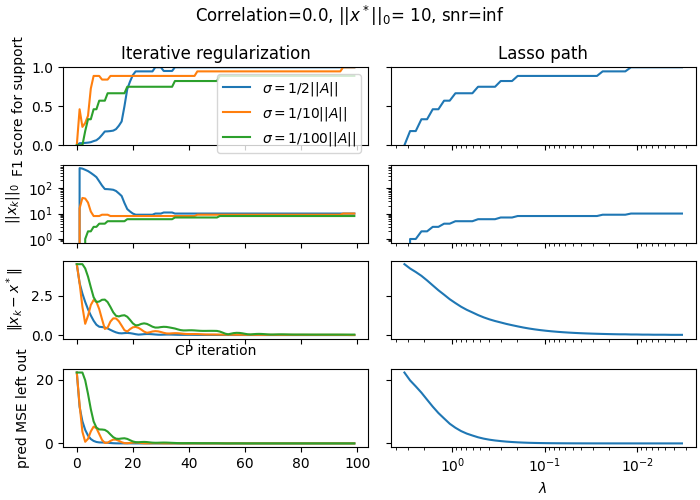
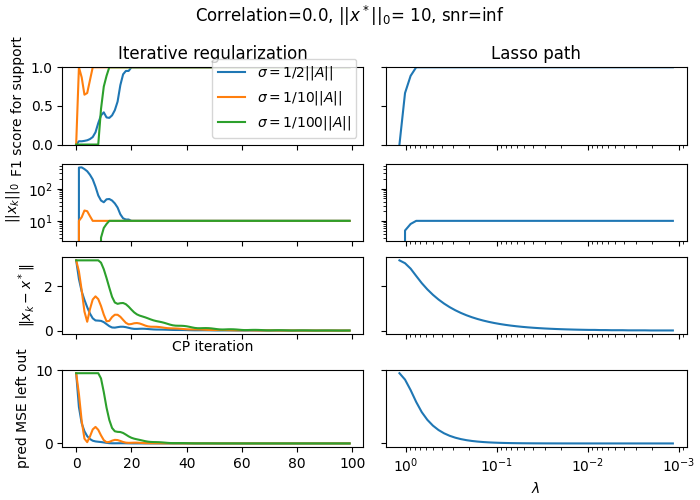
Generate Pelican site [ci skip]

diff --git a/searchindex.js b/searchindex.js
@@ -1,1 +1,1 @@
-Search.setIndex({docnames:["api","auto_examples/index","auto_examples/plot_cv_vs_cp_path","auto_examples/plot_existence_stopping","auto_examples/plot_rate_bregman","auto_examples/plot_stepsize_influence","auto_examples/plot_stopping_lowrank","auto_examples/sg_execution_times","generated/iterreg.ell1.estimators.BasisPursuitIterReg","index"],envversion:{"sphinx.domains.c":2,"sphinx.domains.changeset":1,"sphinx.domains.citation":1,"sphinx.domains.cpp":3,"sphinx.domains.index":1,"sphinx.domains.javascript":2,"sphinx.domains.math":2,"sphinx.domains.python":2,"sphinx.domains.rst":2,"sphinx.domains.std":2,"sphinx.ext.intersphinx":1,sphinx:56},filenames:["api.rst","auto_examples/index.rst","auto_examples/plot_cv_vs_cp_path.rst","auto_examples/plot_existence_stopping.rst","auto_examples/plot_rate_bregman.rst","auto_examples/plot_stepsize_influence.rst","auto_examples/plot_stopping_lowrank.rst","auto_examples/sg_execution_times.rst","generated/iterreg.ell1.estimators.BasisPursuitIterReg.rst","index.rst"],objects:{"iterreg.ell1.estimators":{BasisPursuitIterReg:[8,0,1,""]},"iterreg.ell1.estimators.BasisPursuitIterReg":{__init__:[8,1,1,""]}},objnames:{"0":["py","class","Python class"],"1":["py","method","Python method"]},objtypes:{"0":"py:class","1":"py:method"},terms:{"076":2,"09859":9,"100":[2,4,5,6],"1000":[6,8],"106k":2,"111111111111111":6,"157kb":2,"1_000":[2,5],"1e0":2,"1kb":2,"200":3,"20000":6,"200000":4,"2006":9,"2021":9,"221k":2,"222222222222222":6,"23m":2,"274kb":2,"3000000000000003":3,"333333333333334":6,"33e":2,"34mb":2,"38m":2,"38mb":2,"397":[2,7],"3fs":2,"400":3,"444444444444445":6,"451k":2,"4kb":2,"500":[3,5,6],"5000":2,"503kb":2,"515":7,"54mb":2,"5555555555555554":6,"5_000":3,"61mb":2,"624":[3,7],"63e":4,"664":[6,7],"666666666666667":6,"66m":2,"7000000000000002":3,"777777777777779":6,"80mb":2,"81m":2,"831":2,"83m":2,"83mb":2,"853":[5,7],"86e":4,"87mb":2,"88888888888889":6,"909k":2,"93mb":2,"951kb":2,"95m":2,"95mb":2,"977":[4,7],"case":5,"class":8,"default":2,"final":5,"function":[0,5],"import":[2,3,4,5,6,9],"int":5,"return":3,"true":[2,3,4,5,6],Res:4,The:5,__init__:8,a_test:5,abl:9,abs:[2,4,9],accur:8,addit:5,aistat:9,algo:4,all:[1,4],all_w:[2,3],all_w_pd:4,all_w_rep:3,all_wdict:3,all_x:5,alpha:[2,3,4,5],alpha_:2,alpha_max:2,alphas_:2,alphas_stop:2,anaconda:9,ani:[4,9],arang:[2,3,4,6],argmin:[2,3],arrai:[2,3],arxiv:9,assert:4,author:9,auto_exampl:7,auto_examples_jupyt:1,auto_examples_python:1,avail:9,axarr:[2,5],axi:[2,3,4,5],axvlin:2,b_test:5,basispursuititerreg:2,benefici:5,best:2,best_alpha:2,best_it:2,bia:9,binari:2,block:[2,3,4,5,6],booktitl:9,bool:6,bregman:[1,7],bz2:2,can:9,celer:[2,3,4,5,6],celer_data:2,celer_path:5,cesar:9,chambol:[1,7],check:9,choic:6,circleci:2,cjlin:2,clf:[2,3,4],click:[2,3,4,5,6],clone:9,close:4,code:[1,2,3,4,5,6,9],coef:5,coef_:[3,4],col:5,color:2,column:5,com:9,comparison:2,complet:[1,7],comput:5,configure_plt:[3,4,6],constrained_layout:[2,3,4,5,6],control:4,converg:[4,5],convex:9,copi:[3,6],corr:5,correl:5,csie:2,data:[2,5],dataset:[2,5],decompress:2,def:[3,5],del:3,delai:[2,3],delta:[3,6],delta_k:3,densiti:5,dict:[3,6],differ:5,dist:6,distanc:6,distribut:9,diverg:4,document:9,don:9,down:5,download:[1,2,3,4,5,6],dtype:6,dual:[1,4,7],dual_prim:[2,3,5],dual_primal_low_rank:6,durat:2,earli:2,edu:2,ell1:[2,3,4,5],enough:4,enumer:[2,3,5],environ:9,error:[2,9],estim:[0,2],everyth:9,exampl:[2,3,4,5,6],execut:7,exist:[1,7],f1_score:5,f_store:[2,3,4,5,6],f_test:8,fals:[2,3,4,5,6,8],fast:2,faster:2,feasabl:4,fetch_libsvm:2,fig1:6,fig3:3,fig:[2,4,5],figsiz:[2,3,4,5,6],file:[2,7],file_s:2,fine:9,first:9,fit:[2,3,4],fit_intercept:[2,3,4],flat:6,fontsiz:[3,6],format:[3,6],fro:6,from:[2,3,4,5,6,9],full:[2,3,4,5,6],galleri:[2,3,4,5,6],gener:[1,2,3,4,5,6],geomspac:[2,5],get_xlim:5,git:9,github:9,give:9,grid:2,guarante:[1,7],help:8,here:[2,3,4,5,6],hold:5,home:2,homotopi:5,http:[2,9],idx:6,inf:5,influenc:[1,7],initi:8,inproceed:9,ipynb:[2,3,4,5,6],iter:[2,3,4,5,6,9],iterreg:[2,3,4,5,6],joblib:[2,3],jupyt:[1,2,3,4,5,6],just:9,kenw:2,kfold:2,label:[2,3,4,5,6],lambda:[2,5],lambda_:2,lambda_max:2,lasso:[1,5,7],lassocv:2,lassolar:[3,4],last:5,lcsl:9,left:5,legend:[2,3,4,5,6],len:[2,3,5,6],less:5,librari:9,libsvm:2,libsvmdata:2,libsvmtool:2,limit:6,linalg:[3,4,5,6],linear_model:[3,4],linestyl:2,linewidth:2,link:9,linspac:[3,6],load:2,loc:[3,4,6],longer:5,lorenzo:9,low:[1,7],low_rank:6,make:2,make_correlated_data:5,make_sparse_data:[3,4],mask:6,massia:9,mathbf:4,mathrm:2,mathurin:9,matplotlib:[2,3,4,5,6],matrix:[1,7],max:2,max_it:[2,3,4,5,6,8],mean:2,mean_squared_error:5,memori:[2,8],messag:9,method:8,metric:5,minut:[2,3,4,5,6],mode:[3,4,6],model_select:[2,5],molinari:9,more:5,mse:5,mse_dp:2,mse_path_:2,n_delta:[3,6],n_featur:5,n_job:[2,3],n_point:[2,3,4,6],n_rep:3,n_sampl:5,n_split:2,ncol:[3,6],need:2,nois:[3,5,6],noiseless:5,none:[2,3,4],norm:[3,4,5,6],normal:3,notebook:[1,2,3,4,5,6],now:[2,5],ntu:2,nulliti:[1,7],num:[3,6],numpi:[2,3,4,5,6],ones:3,optim:2,ord:[4,5,6],org:9,our:2,out:[2,3,4,5,6],packag:[2,9],parallel:[2,3],path:[1,5,7],perf_count:2,pip:9,pleas:9,plot:[1,5,7],plot_bregman:4,plot_cv_vs_cp_path:[2,7],plot_existence_stop:[3,7],plot_rate_bregman:[4,7],plot_stepsize_influ:[5,7],plot_stopping_lowrank:[6,7],plot_util:[3,4,6],plot_varying_sigma:5,plt:[2,3,4,5,6],pock:[1,7],posteriori:2,pred:5,primal:[1,4,7],primal_du:4,print:[2,3,4,5,6],pyplot:[2,3,4,5,6],python:[1,2,3,4,5,6,9],randn:[3,6],random:[3,6],random_st:[2,5],rang:[3,5],rank:[1,7],rcv1_train:2,recommend:9,recoveri:[1,7],regress:3,regular:[2,5,9],rep:3,replac:6,repositori:9,requir:[3,4,6],res:[2,3],result:[2,5],ret_al:5,rho:[3,4],right:[3,4,6],rip:5,rosasco:9,row:5,run:[2,3,4,5,6,9],same:4,scal:3,score:5,script:[2,3,4,5,6],second:[2,3,4,5,6],see:8,seed:[3,6],self:8,semilog:[3,4,5,6],semilogx:[2,5],set:5,set_titl:[2,5],set_xlabel:[2,3,5],set_xlim:5,set_xtick:2,set_ylabel:[2,3,5],set_ylim:5,set_ytick:4,shape:3,sharei:[2,5],sharex:5,shell:9,should:9,show:[1,2,4,5,6,7],shuffl:2,sigma:5,sign:4,signatur:8,silvia:9,sklearn:[2,3,4,5],slow:5,smaller:[2,5],snr:[3,4,5],sol:5,solut:5,solver:6,soon:4,sourc:[1,2,3,4,5,6],spars:5,sphinx:[1,2,3,4,5,6],split:2,squar:2,star:[3,4,6],start:5,step:[2,3,5,8],stepsiz:[1,7],still:[5,9],stop:[1,2,7],subgrad2:4,subgrad:4,subplot:[2,3,4,5,6],successfulli:2,sum:[4,5],supp_siz:5,support:[1,7],suptitl:5,svmlight:2,test_idx:2,test_siz:5,tex:[3,4,6],theta:[4,6],theta_pd:4,thi:[3,4,5,9],tikhonov:[1,7],time:[1,2,4,5],time_cp:2,time_cv:2,titl:9,top:4,total:[2,3,4,5,6,7],train_idx:2,train_ratio:8,train_test_split:5,type:8,upper:[3,4,6],use:9,usetex:[3,4,6],using:[5,9],util:[3,4],vanish:4,verbos:[2,3,4,6,8],vert:5,villa:9,w_bp:[3,4],w_k:[4,6],w_pd:4,w_star:6,w_type:3,want:9,when:5,where:5,work:9,wrapper:3,www:2,x_k:5,x_plt:[3,6],x_true:[4,5],xlabel:[4,6],y_delta:6,y_nois:3,y_plt:[3,6],y_true:6,year:9,ylabel:6,you:9,zero:[2,3,6],zip:1},titles:["API Documentation","Examples Gallery","Plot Chambolle Pock path vs Lasso Tikhonov path","Show existence of stopping time","Nullity of Bregman guarantees","Influence of primal-dual stepsizes for support recovery","Plot stopping time for low rank matrix completion","Computation times","iterreg.ell1.estimators.BasisPursuitIterReg","Iterreg"],titleterms:{api:[0,9],basispursuititerreg:8,bregman:4,chambol:2,cite:9,complet:6,comput:7,document:0,dual:5,ell1:8,estim:8,exampl:1,exist:3,galleri:1,guarante:4,influenc:5,instal:9,iterreg:[0,8,9],lasso:2,low:6,matrix:6,nulliti:4,path:2,plot:[2,6],pock:2,primal:5,rank:6,recoveri:5,show:3,stepsiz:5,stop:[3,6],support:5,tikhonov:2,time:[3,6,7]}})
+Search.setIndex({docnames:["api","auto_examples/index","auto_examples/plot_cv_vs_cp_path","auto_examples/plot_existence_stopping","auto_examples/plot_rate_bregman","auto_examples/plot_stepsize_influence","auto_examples/plot_stopping_lowrank","auto_examples/sg_execution_times","generated/iterreg.ell1.estimators.BasisPursuitIterReg","index"],envversion:{"sphinx.domains.c":2,"sphinx.domains.changeset":1,"sphinx.domains.citation":1,"sphinx.domains.cpp":3,"sphinx.domains.index":1,"sphinx.domains.javascript":2,"sphinx.domains.math":2,"sphinx.domains.python":2,"sphinx.domains.rst":2,"sphinx.domains.std":2,"sphinx.ext.intersphinx":1,sphinx:56},filenames:["api.rst","auto_examples/index.rst","auto_examples/plot_cv_vs_cp_path.rst","auto_examples/plot_existence_stopping.rst","auto_examples/plot_rate_bregman.rst","auto_examples/plot_stepsize_influence.rst","auto_examples/plot_stopping_lowrank.rst","auto_examples/sg_execution_times.rst","generated/iterreg.ell1.estimators.BasisPursuitIterReg.rst","index.rst"],objects:{"iterreg.ell1.estimators":{BasisPursuitIterReg:[8,0,1,""]},"iterreg.ell1.estimators.BasisPursuitIterReg":{__init__:[8,1,1,""]}},objnames:{"0":["py","class","Python class"],"1":["py","method","Python method"]},objtypes:{"0":"py:class","1":"py:method"},terms:{"01mb":2,"04mb":2,"081":2,"08mb":2,"09859":9,"09mb":2,"100":[2,4,5,6],"1000":[6,8],"106k":2,"10mb":2,"111111111111111":6,"112kb":2,"176":[6,7],"179kb":2,"1_000":[2,5],"1e0":2,"200":3,"20000":6,"200000":4,"2006":9,"2021":9,"221k":2,"222222222222222":6,"23m":2,"3000000000000003":3,"313kb":2,"333333333333334":6,"33e":2,"38m":2,"3fs":2,"400":3,"401":[4,7],"41mb":2,"42mb":2,"444444444444445":6,"451k":2,"500":[3,5,6],"5000":2,"5555555555555554":6,"574kb":2,"5_000":3,"62mb":2,"63e":4,"662":[2,7],"666666666666667":6,"66m":2,"66mb":2,"7000000000000002":3,"777777777777779":6,"81m":2,"83m":2,"852":[3,7],"86e":4,"88888888888889":6,"896":[5,7],"909k":2,"923":2,"95m":2,"987":7,"case":5,"class":8,"default":2,"final":5,"function":[0,5],"import":[2,3,4,5,6,9],"int":5,"return":3,"true":[2,3,4,5,6],And:5,Res:4,The:5,__init__:8,a_test:5,abl:9,abs:[2,4,9],accur:8,addit:5,aistat:9,algo:4,all:[1,4],all_w:[2,3],all_w_pd:4,all_w_rep:3,all_wdict:3,all_x:5,alpha:[2,3,4,5],alpha_:2,alpha_max:2,alphas_:2,alphas_stop:2,anaconda:9,ani:[4,9],arang:[2,3,4,6],argmin:[2,3],arrai:[2,3],arxiv:9,assert:4,author:9,auto_exampl:7,auto_examples_jupyt:1,auto_examples_python:1,avail:9,axarr:[2,5],axi:[2,3,4,5],axvlin:2,b_test:5,basispursuititerreg:2,benefici:5,best:2,best_alpha:2,best_it:2,bia:9,binari:2,block:[2,3,4,5,6],booktitl:9,bool:6,bregman:[1,7],bz2:2,can:9,celer:[2,3,4,5,6],celer_data:2,celer_path:5,cesar:9,chambol:[1,7],check:9,choic:[5,6],circleci:2,cjlin:2,clf:[2,3,4],click:[2,3,4,5,6],clone:9,close:4,code:[1,2,3,4,5,6,9],coef:5,coef_:[3,4],coeffici:5,col:5,color:2,column:5,com:9,comparison:2,complet:[1,7],comput:5,configure_plt:[3,4,6],constrained_layout:[2,3,4,5,6],control:4,converg:[4,5],convex:9,copi:[3,6],corr:5,correl:5,csie:2,data:[2,5],dataset:[2,5],decompress:2,def:[3,5],del:3,delai:[2,3],delta:[3,6],delta_k:3,densiti:5,dict:[3,6],differ:5,dist:6,distanc:6,distribut:9,diverg:4,document:9,don:9,down:5,download:[1,2,3,4,5,6],dtype:6,dual:[1,4,7],dual_prim:[2,3,5],dual_primal_low_rank:6,durat:2,earli:2,edu:2,ell1:[2,3,4,5],enough:4,entri:5,enumer:[2,3,5],environ:9,equal:5,error:[2,9],estim:[0,2],everyth:9,exampl:[2,3,4,5,6],execut:7,exist:[1,7],f1_score:5,f_store:[2,3,4,5,6],f_test:8,fals:[2,3,4,5,6,8],fast:2,faster:2,feasabl:4,fetch_libsvm:2,fig1:6,fig3:3,fig:[2,4,5],figsiz:[2,3,4,5,6],file:[2,7],file_s:2,fine:9,first:9,fit:[2,3,4],fit_intercept:[2,3,4],flat:6,fontsiz:[3,5,6],format:[3,6],fro:6,from:[2,3,4,5,6,9],full:[2,3,4,5,6],galleri:[2,3,4,5,6],gener:[1,2,3,4,5,6],geomspac:[2,5],get_xlim:5,git:9,github:9,give:9,grid:2,guarante:[1,7],has:5,help:8,here:[2,3,4,5,6],hold:5,home:2,homotopi:5,http:[2,9],idx:6,inf:5,influenc:[1,7],initi:8,inproceed:9,ipynb:[2,3,4,5,6],iter:[2,3,4,5,6,9],iterreg:[2,3,4,5,6],joblib:[2,3],jupyt:[1,2,3,4,5,6],just:9,kenw:2,kfold:2,label:[2,3,4,5,6],lambda:[2,5],lambda_:2,lambda_max:2,lasso:[1,5,7],lassocv:2,lassolar:[3,4],last:5,lcsl:9,left:5,legend:[2,3,4,5,6],len:[2,3,5,6],less:5,librari:9,libsvm:2,libsvmdata:2,libsvmtool:2,limit:6,linalg:[3,4,5,6],linear_model:[3,4],linestyl:2,linewidth:2,link:9,linspac:[3,6],load:2,loc:[3,4,5,6],longer:5,lorenzo:9,low:[1,7],low_rank:6,lower:5,make:2,make_correlated_data:5,make_sparse_data:[3,4],mask:6,massia:9,mathbf:4,mathrm:2,mathurin:9,matplotlib:[2,3,4,5,6],matrix:[1,7],max:2,max_it:[2,3,4,5,6,8],maxim:5,mean:2,mean_squared_error:5,memori:[2,8],messag:9,method:8,metric:5,minut:[2,3,4,5,6],mode:[3,4,6],model_select:[2,5],molinari:9,more:5,mse:5,mse_dp:2,mse_path_:2,n_delta:[3,6],n_featur:5,n_job:[2,3],n_point:[2,3,4,6],n_rep:3,n_sampl:5,n_split:2,ncol:[3,6],need:2,nois:[3,5,6],noiseless:5,none:[2,3,4],norm:[3,4,5,6],normal:3,notebook:[1,2,3,4,5,6],now:[2,5],ntu:2,nulliti:[1,7],num:[3,6],numpi:[2,3,4,5,6],ones:3,optim:2,ord:[4,5,6],org:9,our:2,out:[2,3,4,5,6],packag:[2,9],parallel:[2,3],path:[1,5,7],perf_count:2,pip:9,pleas:9,plot:[1,5,7],plot_bregman:4,plot_cv_vs_cp_path:[2,7],plot_existence_stop:[3,7],plot_rate_bregman:[4,7],plot_stepsize_influ:[5,7],plot_stopping_lowrank:[6,7],plot_util:[3,4,6],plot_varying_sigma:5,plt:[2,3,4,5,6],pock:[1,7],posteriori:2,pred:5,primal:[1,4,7],primal_du:4,print:[2,3,4,5,6],product:5,pyplot:[2,3,4,5,6],python:[1,2,3,4,5,6,9],randn:[3,6],random:[3,5,6],random_st:[2,5],rang:[3,5],rank:[1,7],rcv1_train:2,recommend:9,recoveri:[1,7],regress:3,regular:[2,5,9],rep:3,replac:[5,6],repositori:9,requir:[3,4,6],res:[2,3],result:[2,5],ret_al:5,rho:[3,4,5],right:[3,4,5,6],rip:5,rosasco:9,row:5,run:[2,3,4,5,6,9],same:4,scal:3,score:5,script:[2,3,4,5,6],second:[2,3,4,5,6],see:8,seed:[3,5,6],self:8,semilog:[3,4,5,6],semilogx:[2,5],set:5,set_titl:[2,5],set_xlabel:[2,3,5],set_xlim:5,set_xtick:2,set_ylabel:[2,3,5],set_ylim:5,set_ytick:4,shape:3,sharei:[2,5],sharex:5,shell:9,should:9,show:[1,2,4,5,6,7],shuffl:2,sigma:5,sign:4,signatur:8,silvia:9,size:5,sklearn:[2,3,4,5],slow:5,smaller:[2,5],snr:[3,4,5],sol:5,solut:5,solver:6,soon:4,sourc:[1,2,3,4,5,6],spars:5,sphinx:[1,2,3,4,5,6],split:2,squar:2,star:[3,4,6],start:5,step:[2,3,5,8],stepsiz:[1,7],still:[5,9],stop:[1,2,7],subgrad2:4,subgrad:4,subplot:[2,3,4,5,6],successfulli:2,sum:[4,5],supp:5,supp_siz:5,support:[1,7],suptitl:5,svmlight:2,taken:5,tau:5,test_idx:2,test_siz:5,tex:[3,4,6],theta:[4,6],theta_pd:4,thi:[3,4,5,9],tikhonov:[1,7],time:[1,2,4,5],time_cp:2,time_cv:2,titl:9,top:4,total:[2,3,4,5,6,7],train_idx:2,train_ratio:8,train_test_split:5,type:8,upper:[3,4,6],use:9,usetex:[3,4,6],using:[5,9],util:[3,4],vanish:4,vector:5,verbos:[2,3,4,6,8],vert:5,villa:9,w_bp:[3,4],w_k:[4,6],w_pd:4,w_star:6,w_true:5,w_type:3,want:9,when:5,where:5,work:9,wrapper:3,www:2,x_k:5,x_plt:[3,6],x_true:[4,5],xlabel:[4,6],y_delta:6,y_nois:3,y_plt:[3,6],y_true:6,year:9,ylabel:6,you:9,zero:[2,3,5,6],zip:1},titles:["API Documentation","Examples Gallery","Plot Chambolle Pock path vs Lasso Tikhonov path","Show existence of stopping time","Nullity of Bregman guarantees","Influence of primal-dual stepsizes for support recovery","Plot stopping time for low rank matrix completion","Computation times","iterreg.ell1.estimators.BasisPursuitIterReg","Iterreg"],titleterms:{api:[0,9],basispursuititerreg:8,bregman:4,chambol:2,cite:9,complet:6,comput:7,document:0,dual:5,ell1:8,estim:8,exampl:1,exist:3,galleri:1,guarante:4,influenc:5,instal:9,iterreg:[0,8,9],lasso:2,low:6,matrix:6,nulliti:4,path:2,plot:[2,6],pock:2,primal:5,rank:6,recoveri:5,show:3,stepsiz:5,stop:[3,6],support:5,tikhonov:2,time:[3,6,7]}})

diff --git a/auto_examples/plot_stepsize_influence.html b/auto_examples/plot_stepsize_influence.html
@@ -134,10 +134,16 @@ but is beneficial for support recovery.</p>
 </pre></div>
 </div>
 <p>The function to compute CP, Lasso path and plot metrics:</p>
-<div class="highlight-default notranslate"><div class="highlight"><pre><span></span><span class="k">def</span> <span class="nf">plot_varying_sigma</span><span class="p">(</span><span class="n">corr</span><span class="p">,</span> <span class="n">density</span><span class="p">,</span> <span class="n">snr</span><span class="p">,</span> <span class="n">steps</span><span class="p">,</span> <span class="n">max_iter</span><span class="o">=</span><span class="mi">100</span><span class="p">):</span>
+<div class="highlight-default notranslate"><div class="highlight"><pre><span></span><span class="k">def</span> <span class="nf">plot_varying_sigma</span><span class="p">(</span><span class="n">corr</span><span class="p">,</span> <span class="n">density</span><span class="p">,</span> <span class="n">snr</span><span class="p">,</span> <span class="n">steps</span><span class="p">,</span> <span class="n">max_iter</span><span class="o">=</span><span class="mi">100</span><span class="p">,</span> <span class="n">rho</span><span class="o">=</span><span class="mf">0.99</span><span class="p">):</span>
+    <a href="https://numpy.org/doc/stable/reference/random/generated/numpy.random.seed.html#numpy.random.seed" title="numpy.random.seed" class="sphx-glr-backref-module-numpy-random sphx-glr-backref-type-py-function"><span class="n">np</span><span class="o">.</span><span class="n">random</span><span class="o">.</span><span class="n">seed</span></a><span class="p">(</span><span class="mi">0</span><span class="p">)</span>
+    <span class="c1"># true coefficient vector has entries equal to 0 or 1</span>
+    <span class="n">supp</span> <span class="o">=</span> <a href="https://numpy.org/doc/stable/reference/random/generated/numpy.random.choice.html#numpy.random.choice" title="numpy.random.choice" class="sphx-glr-backref-module-numpy-random sphx-glr-backref-type-py-function"><span class="n">np</span><span class="o">.</span><span class="n">random</span><span class="o">.</span><span class="n">choice</span></a><span class="p">(</span><span class="n">n_features</span><span class="p">,</span> <span class="n">size</span><span class="o">=</span><span class="nb">int</span><span class="p">(</span><span class="n">density</span> <span class="o">*</span> <span class="n">n_features</span><span class="p">),</span>
+                            <span class="n">replace</span><span class="o">=</span><span class="kc">False</span><span class="p">)</span>
+    <span class="n">x_true</span> <span class="o">=</span> <a href="https://numpy.org/doc/stable/reference/generated/numpy.zeros.html#numpy.zeros" title="numpy.zeros" class="sphx-glr-backref-module-numpy sphx-glr-backref-type-py-function"><span class="n">np</span><span class="o">.</span><span class="n">zeros</span></a><span class="p">(</span><span class="n">n_features</span><span class="p">)</span>
+    <span class="n">x_true</span><span class="p">[</span><span class="n">supp</span><span class="p">]</span> <span class="o">=</span> <span class="mi">1</span>
     <span class="n">A_</span><span class="p">,</span> <span class="n">b_</span><span class="p">,</span> <span class="n">x_true</span> <span class="o">=</span> <span class="n">make_correlated_data</span><span class="p">(</span>
         <span class="n">n_samples</span><span class="o">=</span><span class="nb">int</span><span class="p">(</span><span class="n">n_samples</span> <span class="o">*</span> <span class="mi">4</span> <span class="o">/</span> <span class="mf">3.</span><span class="p">),</span> <span class="n">n_features</span><span class="o">=</span><span class="n">n_features</span><span class="p">,</span>
-        <span class="n">density</span><span class="o">=</span><span class="n">density</span><span class="p">,</span>
+        <span class="n">w_true</span><span class="o">=</span><span class="n">x_true</span><span class="p">,</span>
         <span class="n">corr</span><span class="o">=</span><span class="n">corr</span><span class="p">,</span> <span class="n">snr</span><span class="o">=</span><span class="n">snr</span><span class="p">,</span> <span class="n">random_state</span><span class="o">=</span><span class="mi">0</span><span class="p">)</span>
 
     <span class="n">A</span><span class="p">,</span> <span class="n">A_test</span><span class="p">,</span> <span class="n">b</span><span class="p">,</span> <span class="n">b_test</span> <span class="o">=</span> <a href="https://scikit-learn.org/stable/modules/generated/sklearn.model_selection.train_test_split.html#sklearn.model_selection.train_test_split" title="sklearn.model_selection.train_test_split" class="sphx-glr-backref-module-sklearn-model_selection sphx-glr-backref-type-py-function"><span class="n">train_test_split</span></a><span class="p">(</span><span class="n">A_</span><span class="p">,</span> <span class="n">b_</span><span class="p">,</span> <span class="n">test_size</span><span class="o">=</span><span class="mf">0.25</span><span class="p">)</span>
@@ -151,7 +157,8 @@ but is beneficial for support recovery.</p>
 
     <span class="k">for</span> <span class="n">i</span><span class="p">,</span> <span class="n">step</span> <span class="ow">in</span> <span class="nb">enumerate</span><span class="p">(</span><span class="n">steps</span><span class="p">):</span>
         <span class="n">_</span><span class="p">,</span> <span class="n">_</span><span class="p">,</span> <span class="n">_</span><span class="p">,</span> <span class="n">all_x</span> <span class="o">=</span> <span class="n">dual_primal</span><span class="p">(</span>
-            <span class="n">A</span><span class="p">,</span> <span class="n">b</span><span class="p">,</span> <span class="n">step</span><span class="o">=</span><span class="n">step</span><span class="p">,</span> <span class="n">ret_all</span><span class="o">=</span><span class="kc">True</span><span class="p">,</span> <span class="n">max_iter</span><span class="o">=</span><span class="n">max_iter</span><span class="p">,</span> <span class="n">f_store</span><span class="o">=</span><span class="mi">1</span><span class="p">)</span>
+            <span class="n">A</span><span class="p">,</span> <span class="n">b</span><span class="p">,</span> <span class="n">step</span><span class="o">=</span><span class="n">step</span><span class="p">,</span> <span class="n">rho</span><span class="o">=</span><span class="n">rho</span><span class="p">,</span> <span class="n">ret_all</span><span class="o">=</span><span class="kc">True</span><span class="p">,</span> <span class="n">max_iter</span><span class="o">=</span><span class="n">max_iter</span><span class="p">,</span>
+            <span class="n">f_store</span><span class="o">=</span><span class="mi">1</span><span class="p">)</span>
         <span class="n">scores</span> <span class="o">=</span> <span class="p">[</span><a href="https://scikit-learn.org/stable/modules/generated/sklearn.metrics.f1_score.html#sklearn.metrics.f1_score" title="sklearn.metrics.f1_score" class="sphx-glr-backref-module-sklearn-metrics sphx-glr-backref-type-py-function"><span class="n">f1_score</span></a><span class="p">(</span><span class="n">x</span> <span class="o">!=</span> <span class="mi">0</span><span class="p">,</span> <span class="n">x_true</span> <span class="o">!=</span> <span class="mi">0</span><span class="p">)</span> <span class="k">for</span> <span class="n">x</span> <span class="ow">in</span> <span class="n">all_x</span><span class="p">]</span>
         <span class="n">supp_size</span> <span class="o">=</span> <a href="https://numpy.org/doc/stable/reference/generated/numpy.sum.html#numpy.sum" title="numpy.sum" class="sphx-glr-backref-module-numpy sphx-glr-backref-type-py-function"><span class="n">np</span><span class="o">.</span><span class="n">sum</span></a><span class="p">(</span><span class="n">all_x</span> <span class="o">!=</span> <span class="mi">0</span><span class="p">,</span> <span class="n">axis</span><span class="o">=</span><span class="mi">1</span><span class="p">)</span>
         <span class="n">mses</span> <span class="o">=</span> <span class="p">[</span><a href="https://scikit-learn.org/stable/modules/generated/sklearn.metrics.mean_squared_error.html#sklearn.metrics.mean_squared_error" title="sklearn.metrics.mean_squared_error" class="sphx-glr-backref-module-sklearn-metrics sphx-glr-backref-type-py-function"><span class="n">mean_squared_error</span></a><span class="p">(</span><span class="n">b_test</span><span class="p">,</span> <span class="n">A_test</span> <span class="o">@</span> <span class="n">x</span><span class="p">)</span> <span class="k">for</span> <span class="n">x</span> <span class="ow">in</span> <span class="n">all_x</span><span class="p">]</span>
@@ -167,7 +174,7 @@ but is beneficial for support recovery.</p>
     <span class="n">axarr</span><span class="p">[</span><span class="mi">2</span><span class="p">,</span> <span class="mi">0</span><span class="p">]</span><span class="o">.</span><span class="n">set_ylabel</span><span class="p">(</span><span class="sa">r</span><span class="s1">&#39;$\Vert x_k - x^*\Vert$&#39;</span><span class="p">)</span>
     <span class="n">axarr</span><span class="p">[</span><span class="mi">2</span><span class="p">,</span> <span class="mi">0</span><span class="p">]</span><span class="o">.</span><span class="n">set_xlabel</span><span class="p">(</span><span class="s2">&quot;CP iteration&quot;</span><span class="p">)</span>
     <span class="n">axarr</span><span class="p">[</span><span class="mi">3</span><span class="p">,</span> <span class="mi">0</span><span class="p">]</span><span class="o">.</span><span class="n">set_ylabel</span><span class="p">(</span><span class="s2">&quot;pred MSE left out&quot;</span><span class="p">)</span>
-    <span class="n">axarr</span><span class="p">[</span><span class="mi">0</span><span class="p">,</span> <span class="mi">0</span><span class="p">]</span><span class="o">.</span><span class="n">legend</span><span class="p">()</span>
+    <span class="n">axarr</span><span class="p">[</span><span class="mi">0</span><span class="p">,</span> <span class="mi">0</span><span class="p">]</span><span class="o">.</span><span class="n">legend</span><span class="p">(</span><span class="n">loc</span><span class="o">=</span><span class="s1">&#39;lower right&#39;</span><span class="p">,</span> <span class="n">fontsize</span><span class="o">=</span><span class="mi">10</span><span class="p">)</span>
     <span class="n">axarr</span><span class="p">[</span><span class="mi">0</span><span class="p">,</span> <span class="mi">0</span><span class="p">]</span><span class="o">.</span><span class="n">set_title</span><span class="p">(</span><span class="s1">&#39;Iterative regularization&#39;</span><span class="p">)</span>
 
     <span class="c1"># last column: Lasso results</span>
@@ -243,7 +250,19 @@ but is beneficial for support recovery.</p>
 <div class="sphx-glr-script-out highlight-none notranslate"><div class="highlight"><pre><span></span>Starting computation for this setting
 </pre></div>
 </div>
-<p class="sphx-glr-timing"><strong>Total running time of the script:</strong> ( 0 minutes  19.853 seconds)</p>
+<p>And when the product of the stepsizes is not taken maximal:
+tau * sigma = rho</p>
+<div class="highlight-default notranslate"><div class="highlight"><pre><span></span><span class="n">rho</span> <span class="o">=</span> <span class="mf">0.1</span>
+
+<span class="n">plot_varying_sigma</span><span class="p">(</span><span class="n">corr</span><span class="p">,</span> <span class="n">density</span><span class="p">,</span> <span class="n">snr</span><span class="p">,</span> <span class="p">[</span><span class="mi">2</span><span class="p">,</span> <span class="mi">10</span><span class="p">,</span> <span class="mi">100</span><span class="p">],</span> <span class="n">rho</span><span class="o">=</span><span class="n">rho</span><span class="p">,</span> <span class="n">max_iter</span><span class="o">=</span><span class="mi">100</span><span class="p">)</span>
+</pre></div>
+</div>
+<img alt="Correlation=0.2, $||x^*||_0$= 100, snr=10, Iterative regularization, Lasso path" class="sphx-glr-single-img" src="../_images/sphx_glr_plot_stepsize_influence_005.png" />
+<p class="sphx-glr-script-out">Out:</p>
+<div class="sphx-glr-script-out highlight-none notranslate"><div class="highlight"><pre><span></span>Starting computation for this setting
+</pre></div>
+</div>
+<p class="sphx-glr-timing"><strong>Total running time of the script:</strong> ( 0 minutes  25.896 seconds)</p>
 <div class="sphx-glr-footer class sphx-glr-footer-example docutils container" id="sphx-glr-download-auto-examples-plot-stepsize-influence-py">
 <div class="sphx-glr-download sphx-glr-download-python docutils container">
 <p><a class="reference download internal" download="" href="../_downloads/d82e3ffc88154e05fd0f15f58393446e/plot_stepsize_influence.py"><code class="xref download docutils literal notranslate"><span class="pre">Download</span> <span class="pre">Python</span> <span class="pre">source</span> <span class="pre">code:</span> <span class="pre">plot_stepsize_influence.py</span></code></a></p>
@@ -268,7 +287,7 @@ but is beneficial for support recovery.</p>
     </p>
     <p>
         &copy; Copyright 2020, Mathurin Massias.<br/>
-      Created using <a href="http://sphinx-doc.org/">Sphinx</a> 3.5.2.<br/>
+      Created using <a href="http://sphinx-doc.org/">Sphinx</a> 3.5.3.<br/>
     </p>
   </div>
 </footer>

diff --git a/auto_examples/plot_cv_vs_cp_path.html b/auto_examples/plot_cv_vs_cp_path.html
@@ -199,21 +199,21 @@ Downloading data from https://www.csie.ntu.edu.tw/~cjlin/libsvmtools/datasets/bi
 
 
 file_sizes:   0%|                                   | 0.00/13.7M [00:00&lt;?, ?B/s]
-file_sizes:   0%|                          | 24.6k/13.7M [00:00&lt;02:21, 97.1kB/s]
-file_sizes:   0%|                          | 49.2k/13.7M [00:00&lt;02:20, 97.4kB/s]
-file_sizes:   1%|2                           | 106k/13.7M [00:00&lt;01:26, 157kB/s]
-file_sizes:   2%|4                           | 221k/13.7M [00:01&lt;00:49, 274kB/s]
-file_sizes:   3%|9                           | 451k/13.7M [00:01&lt;00:26, 503kB/s]
-file_sizes:   7%|#8                          | 909k/13.7M [00:01&lt;00:13, 951kB/s]
-file_sizes:  13%|###4                      | 1.83M/13.7M [00:01&lt;00:06, 1.83MB/s]
-file_sizes:  27%|######9                   | 3.66M/13.7M [00:02&lt;00:02, 3.54MB/s]
-file_sizes:  38%|#########9                | 5.23M/13.7M [00:02&lt;00:01, 4.38MB/s]
-file_sizes:  50%|############8             | 6.81M/13.7M [00:02&lt;00:01, 4.95MB/s]
-file_sizes:  61%|###############8          | 8.38M/13.7M [00:02&lt;00:01, 5.34MB/s]
-file_sizes:  72%|##################8       | 9.95M/13.7M [00:03&lt;00:00, 5.61MB/s]
-file_sizes:  84%|#####################8    | 11.5M/13.7M [00:03&lt;00:00, 5.80MB/s]
-file_sizes:  95%|########################8 | 13.1M/13.7M [00:03&lt;00:00, 5.93MB/s]
-file_sizes: 100%|##########################| 13.7M/13.7M [00:03&lt;00:00, 3.87MB/s]
+file_sizes:   0%|                           | 24.6k/13.7M [00:00&lt;02:02, 112kB/s]
+file_sizes:   0%|                           | 49.2k/13.7M [00:00&lt;02:02, 112kB/s]
+file_sizes:   1%|2                           | 106k/13.7M [00:00&lt;01:15, 179kB/s]
+file_sizes:   2%|4                           | 221k/13.7M [00:00&lt;00:43, 313kB/s]
+file_sizes:   3%|9                           | 451k/13.7M [00:01&lt;00:23, 574kB/s]
+file_sizes:   7%|#7                         | 909k/13.7M [00:01&lt;00:11, 1.08MB/s]
+file_sizes:  13%|###4                      | 1.83M/13.7M [00:01&lt;00:05, 2.09MB/s]
+file_sizes:  27%|######9                   | 3.66M/13.7M [00:01&lt;00:02, 4.04MB/s]
+file_sizes:  38%|#########9                | 5.23M/13.7M [00:01&lt;00:01, 5.01MB/s]
+file_sizes:  50%|############8             | 6.81M/13.7M [00:02&lt;00:01, 5.66MB/s]
+file_sizes:  61%|###############8          | 8.38M/13.7M [00:02&lt;00:00, 6.10MB/s]
+file_sizes:  72%|##################8       | 9.95M/13.7M [00:02&lt;00:00, 6.41MB/s]
+file_sizes:  84%|#####################8    | 11.5M/13.7M [00:02&lt;00:00, 6.62MB/s]
+file_sizes:  99%|#########################7| 13.6M/13.7M [00:03&lt;00:00, 7.42MB/s]
+file_sizes: 100%|##########################| 13.7M/13.7M [00:03&lt;00:00, 4.42MB/s]
 Successfully downloaded file to /home/circleci/celer_data/libsvm/binary/rcv1_train.binary.bz2
 Decompressing...
 Loading svmlight file...
@@ -246,14 +246,14 @@ Loading svmlight file...
 </pre></div>
 </div>
 <p class="sphx-glr-script-out">Out:</p>
-<div class="sphx-glr-script-out highlight-none notranslate"><div class="highlight"><pre><span></span>Duration for CP: 0.076s
+<div class="sphx-glr-script-out highlight-none notranslate"><div class="highlight"><pre><span></span>Duration for CP: 0.081s
 CP early stop needs 25 iter
 LassoCV optimal lambda: 4.33e-03 lambda_max
-CP time: 0.076 s
-CV time: 8.831 s
+CP time: 0.081 s
+CV time: 8.923 s
 </pre></div>
 </div>
-<p class="sphx-glr-timing"><strong>Total running time of the script:</strong> ( 0 minutes  50.397 seconds)</p>
+<p class="sphx-glr-timing"><strong>Total running time of the script:</strong> ( 0 minutes  52.662 seconds)</p>
 <div class="sphx-glr-footer class sphx-glr-footer-example docutils container" id="sphx-glr-download-auto-examples-plot-cv-vs-cp-path-py">
 <div class="sphx-glr-download sphx-glr-download-python docutils container">
 <p><a class="reference download internal" download="" href="../_downloads/3f72d295e8814de434ebe7b26eaebece/plot_cv_vs_cp_path.py"><code class="xref download docutils literal notranslate"><span class="pre">Download</span> <span class="pre">Python</span> <span class="pre">source</span> <span class="pre">code:</span> <span class="pre">plot_cv_vs_cp_path.py</span></code></a></p>
@@ -278,7 +278,7 @@ CV time: 8.831 s
     </p>
     <p>
         &copy; Copyright 2020, Mathurin Massias.<br/>
-      Created using <a href="http://sphinx-doc.org/">Sphinx</a> 3.5.2.<br/>
+      Created using <a href="http://sphinx-doc.org/">Sphinx</a> 3.5.3.<br/>
     </p>
   </div>
 </footer>

diff --git a/auto_examples/sg_execution_times.html b/auto_examples/sg_execution_times.html
@@ -111,7 +111,7 @@
       
   <div class="section" id="computation-times">
 <span id="sphx-glr-auto-examples-sg-execution-times"></span><h1>Computation times<a class="headerlink" href="#computation-times" title="Permalink to this headline">¶</a></h1>
-<p><strong>01:30.515</strong> total execution time for <strong>auto_examples</strong> files:</p>
+<p><strong>01:43.987</strong> total execution time for <strong>auto_examples</strong> files:</p>
 <table class="docutils align-default">
 <colgroup>
 <col style="width: 83%" />
@@ -120,23 +120,23 @@
 </colgroup>
 <tbody>
 <tr class="row-odd"><td><p><a class="reference internal" href="plot_cv_vs_cp_path.html#sphx-glr-auto-examples-plot-cv-vs-cp-path-py"><span class="std std-ref">Plot Chambolle Pock path vs Lasso Tikhonov path</span></a> (<code class="docutils literal notranslate"><span class="pre">plot_cv_vs_cp_path.py</span></code>)</p></td>
-<td><p>00:50.397</p></td>
+<td><p>00:52.662</p></td>
 <td><p>0.0 MB</p></td>
 </tr>
 <tr class="row-even"><td><p><a class="reference internal" href="plot_stepsize_influence.html#sphx-glr-auto-examples-plot-stepsize-influence-py"><span class="std std-ref">Influence of primal-dual stepsizes for support recovery</span></a> (<code class="docutils literal notranslate"><span class="pre">plot_stepsize_influence.py</span></code>)</p></td>
-<td><p>00:19.853</p></td>
+<td><p>00:25.896</p></td>
 <td><p>0.0 MB</p></td>
 </tr>
 <tr class="row-odd"><td><p><a class="reference internal" href="plot_existence_stopping.html#sphx-glr-auto-examples-plot-existence-stopping-py"><span class="std std-ref">Show existence of stopping time</span></a> (<code class="docutils literal notranslate"><span class="pre">plot_existence_stopping.py</span></code>)</p></td>
-<td><p>00:10.624</p></td>
+<td><p>00:11.852</p></td>
 <td><p>0.0 MB</p></td>
 </tr>
 <tr class="row-even"><td><p><a class="reference internal" href="plot_stopping_lowrank.html#sphx-glr-auto-examples-plot-stopping-lowrank-py"><span class="std std-ref">Plot stopping time for low rank matrix completion</span></a> (<code class="docutils literal notranslate"><span class="pre">plot_stopping_lowrank.py</span></code>)</p></td>
-<td><p>00:06.664</p></td>
+<td><p>00:10.176</p></td>
 <td><p>0.0 MB</p></td>
 </tr>
 <tr class="row-odd"><td><p><a class="reference internal" href="plot_rate_bregman.html#sphx-glr-auto-examples-plot-rate-bregman-py"><span class="std std-ref">Nullity of Bregman guarantees</span></a> (<code class="docutils literal notranslate"><span class="pre">plot_rate_bregman.py</span></code>)</p></td>
-<td><p>00:02.977</p></td>
+<td><p>00:03.401</p></td>
 <td><p>0.0 MB</p></td>
 </tr>
 </tbody>
@@ -156,7 +156,7 @@
     </p>
     <p>
         &copy; Copyright 2020, Mathurin Massias.<br/>
-      Created using <a href="http://sphinx-doc.org/">Sphinx</a> 3.5.2.<br/>
+      Created using <a href="http://sphinx-doc.org/">Sphinx</a> 3.5.3.<br/>
     </p>
   </div>
 </footer>

diff --git a/auto_examples/plot_existence_stopping.html b/auto_examples/plot_existence_stopping.html
@@ -207,7 +207,7 @@ to download the full example code</p>
 <a href="https://matplotlib.org/api/_as_gen/matplotlib.pyplot.show.html#matplotlib.pyplot.show" title="matplotlib.pyplot.show" class="sphx-glr-backref-module-matplotlib-pyplot sphx-glr-backref-type-py-function"><span class="n">plt</span><span class="o">.</span><span class="n">show</span></a><span class="p">(</span><span class="n">block</span><span class="o">=</span><span class="kc">False</span><span class="p">)</span>
 </pre></div>
 </div>
-<p class="sphx-glr-timing"><strong>Total running time of the script:</strong> ( 0 minutes  10.624 seconds)</p>
+<p class="sphx-glr-timing"><strong>Total running time of the script:</strong> ( 0 minutes  11.852 seconds)</p>
 <div class="sphx-glr-footer class sphx-glr-footer-example docutils container" id="sphx-glr-download-auto-examples-plot-existence-stopping-py">
 <div class="sphx-glr-download sphx-glr-download-python docutils container">
 <p><a class="reference download internal" download="" href="../_downloads/d0f562fb5f3963cf006e088630cd4987/plot_existence_stopping.py"><code class="xref download docutils literal notranslate"><span class="pre">Download</span> <span class="pre">Python</span> <span class="pre">source</span> <span class="pre">code:</span> <span class="pre">plot_existence_stopping.py</span></code></a></p>
@@ -232,7 +232,7 @@ to download the full example code</p>
     </p>
     <p>
         &copy; Copyright 2020, Mathurin Massias.<br/>
-      Created using <a href="http://sphinx-doc.org/">Sphinx</a> 3.5.2.<br/>
+      Created using <a href="http://sphinx-doc.org/">Sphinx</a> 3.5.3.<br/>
     </p>
   </div>
 </footer>

diff --git a/auto_examples/plot_stopping_lowrank.html b/auto_examples/plot_stopping_lowrank.html
@@ -190,7 +190,7 @@ to download the full example code</p>
 <a href="https://matplotlib.org/api/_as_gen/matplotlib.pyplot.show.html#matplotlib.pyplot.show" title="matplotlib.pyplot.show" class="sphx-glr-backref-module-matplotlib-pyplot sphx-glr-backref-type-py-function"><span class="n">plt</span><span class="o">.</span><span class="n">show</span></a><span class="p">(</span><span class="n">block</span><span class="o">=</span><span class="kc">False</span><span class="p">)</span>
 </pre></div>
 </div>
-<p class="sphx-glr-timing"><strong>Total running time of the script:</strong> ( 0 minutes  6.664 seconds)</p>
+<p class="sphx-glr-timing"><strong>Total running time of the script:</strong> ( 0 minutes  10.176 seconds)</p>
 <div class="sphx-glr-footer class sphx-glr-footer-example docutils container" id="sphx-glr-download-auto-examples-plot-stopping-lowrank-py">
 <div class="sphx-glr-download sphx-glr-download-python docutils container">
 <p><a class="reference download internal" download="" href="../_downloads/b1512677ec95f3f4472e2743c69b4fa2/plot_stopping_lowrank.py"><code class="xref download docutils literal notranslate"><span class="pre">Download</span> <span class="pre">Python</span> <span class="pre">source</span> <span class="pre">code:</span> <span class="pre">plot_stopping_lowrank.py</span></code></a></p>
@@ -215,7 +215,7 @@ to download the full example code</p>
     </p>
     <p>
         &copy; Copyright 2020, Mathurin Massias.<br/>
-      Created using <a href="http://sphinx-doc.org/">Sphinx</a> 3.5.2.<br/>
+      Created using <a href="http://sphinx-doc.org/">Sphinx</a> 3.5.3.<br/>
     </p>
   </div>
 </footer>

diff --git a/auto_examples/plot_rate_bregman.html b/auto_examples/plot_rate_bregman.html
@@ -192,7 +192,7 @@ Res norm BP 1.63e-12
 <a href="https://matplotlib.org/api/_as_gen/matplotlib.pyplot.show.html#matplotlib.pyplot.show" title="matplotlib.pyplot.show" class="sphx-glr-backref-module-matplotlib-pyplot sphx-glr-backref-type-py-function"><span class="n">plt</span><span class="o">.</span><span class="n">show</span></a><span class="p">(</span><span class="n">block</span><span class="o">=</span><span class="kc">False</span><span class="p">)</span>
 </pre></div>
 </div>
-<p class="sphx-glr-timing"><strong>Total running time of the script:</strong> ( 0 minutes  2.977 seconds)</p>
+<p class="sphx-glr-timing"><strong>Total running time of the script:</strong> ( 0 minutes  3.401 seconds)</p>
 <div class="sphx-glr-footer class sphx-glr-footer-example docutils container" id="sphx-glr-download-auto-examples-plot-rate-bregman-py">
 <div class="sphx-glr-download sphx-glr-download-python docutils container">
 <p><a class="reference download internal" download="" href="../_downloads/452a06f92b0b9ccfc967f2d8a3a4e543/plot_rate_bregman.py"><code class="xref download docutils literal notranslate"><span class="pre">Download</span> <span class="pre">Python</span> <span class="pre">source</span> <span class="pre">code:</span> <span class="pre">plot_rate_bregman.py</span></code></a></p>
@@ -217,7 +217,7 @@ Res norm BP 1.63e-12
     </p>
     <p>
         &copy; Copyright 2020, Mathurin Massias.<br/>
-      Created using <a href="http://sphinx-doc.org/">Sphinx</a> 3.5.2.<br/>
+      Created using <a href="http://sphinx-doc.org/">Sphinx</a> 3.5.3.<br/>
     </p>
   </div>
 </footer>

diff --git a/index.html b/index.html
@@ -180,7 +180,7 @@ $ cd iterreg/
     </p>
     <p>
         &copy; Copyright 2020, Mathurin Massias.<br/>
-      Created using <a href="http://sphinx-doc.org/">Sphinx</a> 3.5.2.<br/>
+      Created using <a href="http://sphinx-doc.org/">Sphinx</a> 3.5.3.<br/>
     </p>
   </div>
 </footer>

diff --git a/api.html b/api.html
@@ -155,7 +155,7 @@
     </p>
     <p>
         &copy; Copyright 2020, Mathurin Massias.<br/>
-      Created using <a href="http://sphinx-doc.org/">Sphinx</a> 3.5.2.<br/>
+      Created using <a href="http://sphinx-doc.org/">Sphinx</a> 3.5.3.<br/>
     </p>
   </div>
 </footer>

diff --git a/auto_examples/index.html b/auto_examples/index.html
@@ -167,7 +167,7 @@
     </p>
     <p>
         &copy; Copyright 2020, Mathurin Massias.<br/>
-      Created using <a href="http://sphinx-doc.org/">Sphinx</a> 3.5.2.<br/>
+      Created using <a href="http://sphinx-doc.org/">Sphinx</a> 3.5.3.<br/>
     </p>
   </div>
 </footer>

diff --git a/genindex.html b/genindex.html
@@ -140,7 +140,7 @@
     </p>
     <p>
         &copy; Copyright 2020, Mathurin Massias.<br/>
-      Created using <a href="http://sphinx-doc.org/">Sphinx</a> 3.5.2.<br/>
+      Created using <a href="http://sphinx-doc.org/">Sphinx</a> 3.5.3.<br/>
     </p>
   </div>
 </footer>

diff --git a/search.html b/search.html
@@ -143,7 +143,7 @@
     </p>
     <p>
         &copy; Copyright 2020, Mathurin Massias.<br/>
-      Created using <a href="http://sphinx-doc.org/">Sphinx</a> 3.5.2.<br/>
+      Created using <a href="http://sphinx-doc.org/">Sphinx</a> 3.5.3.<br/>
     </p>
   </div>
 </footer>
